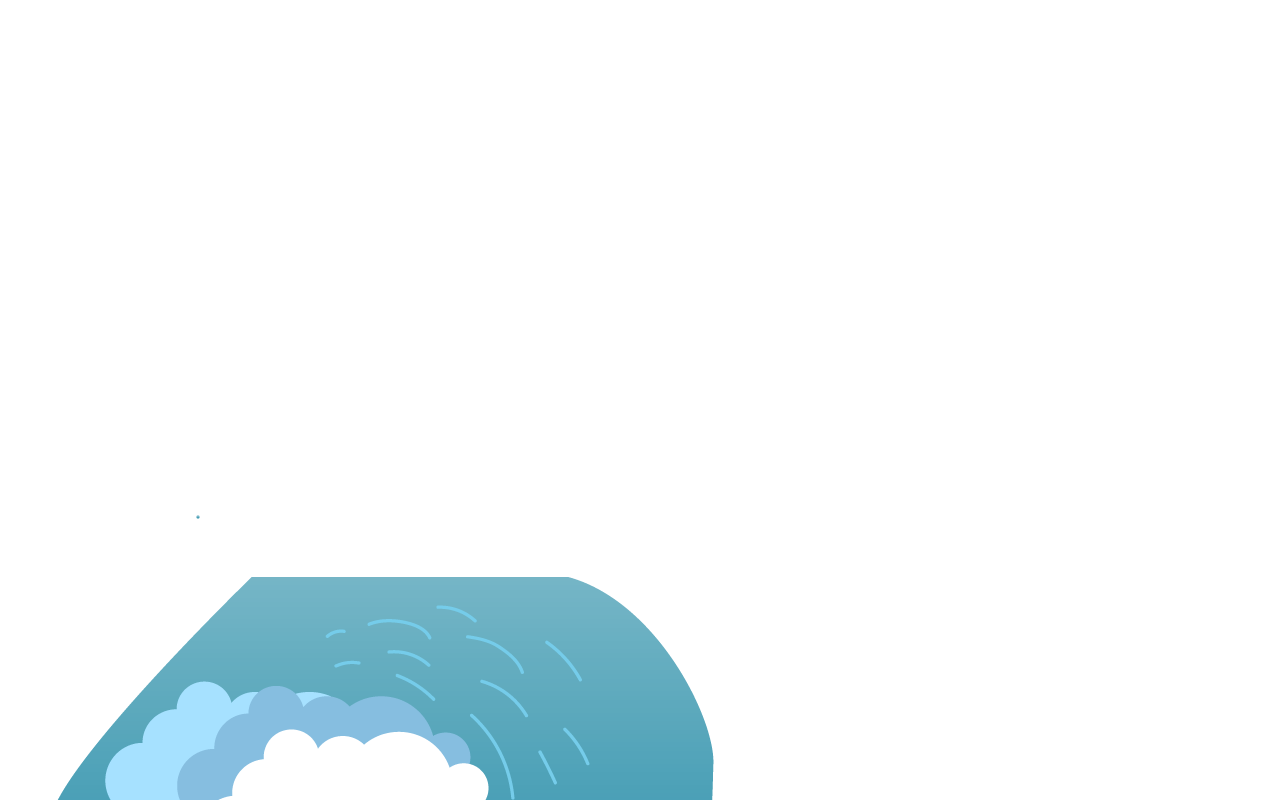
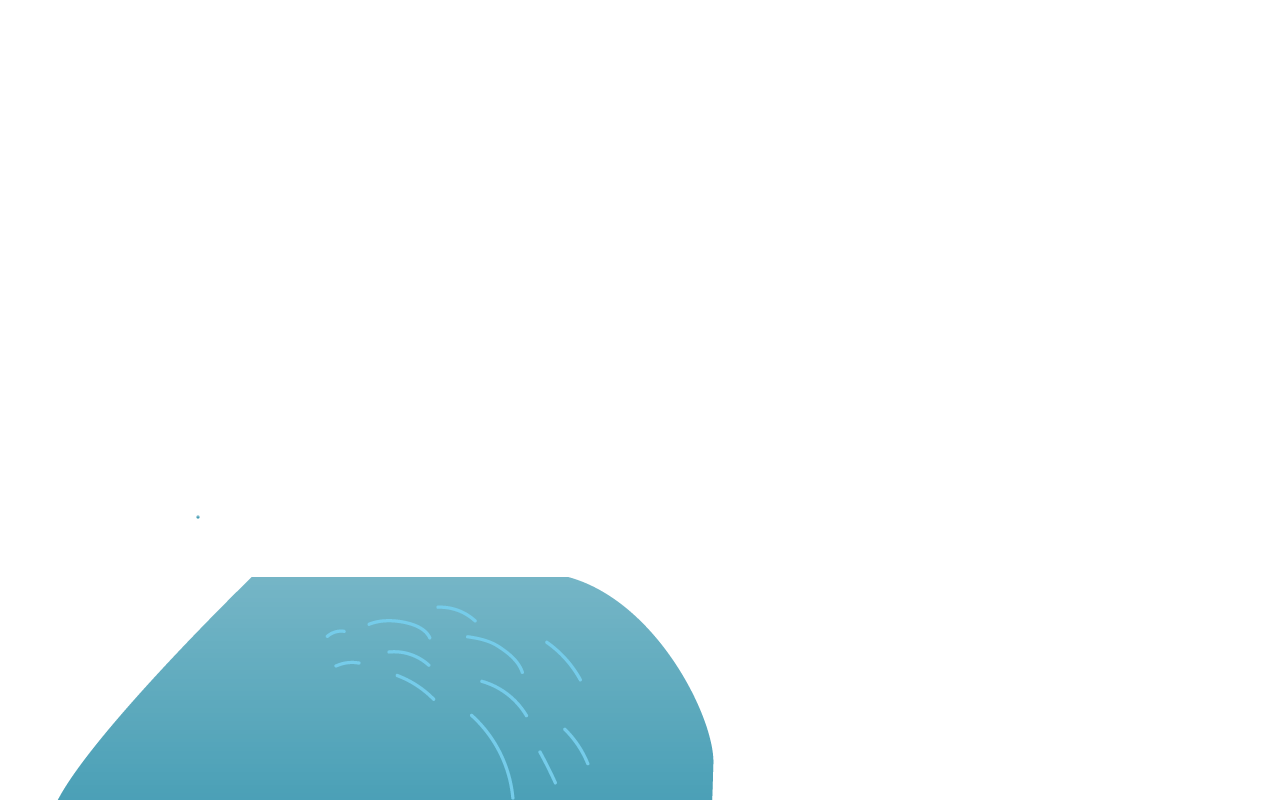
before starting in java, first scene animated

Changed region(s): [[0.0625, 0.8438, 0.4062, 1.0]]

diff --git a/anim.css b/anim.css
@@ -1,177 +1,214 @@
-body {
-    background: url(background/1.png) no-repeat;
-}
-
-img {
-    width: 100%;
-}
-
-.leftcliff1 {
-    position: fixed;
-    margin-left: -10px;
-    width: 1280px;
-    height: 800px;
-    background: url(background/3.png) no-repeat;
-    animation: lc1 1s forwards ease-in;
-}
-
-@keyframes lc1 {
-    0% {
-        background-position: -100vw;
+    body {
+        background: url(background/1.png) no-repeat;
+         background-attachment: fixed;
+        background-size: 1280px 800px;
     }
-    100% {
-        background-position: 0vw;
+
+    img {
+        width: 100%;
     }
-}
 
-.leftcliff {
-    position: fixed;
-    margin-left: -10px;
-    width: 1280px;
-    height: 800px;
-    background: url(background/2.png) no-repeat;
-    animation: lc 1s forwards ease-in;
-}
-
-@keyframes lc {
-    0% {
-        background-position: -100vw;
+    .leftcliff1 {
+        position: fixed;
+        margin-left: -10px;
+        width: 1280px;
+        height: 800px;
+        background: url(background/3.png) no-repeat;
+        animation: lc1 1.5s forwards ease-out;
     }
-    100% {
-        background-position: 0vw;
+
+    @keyframes lc1 {
+        0% {
+            background-position: -100vw;
+        }
+        100% {
+            background-position: 0vw;
+        }
     }
-}
 
-.backcliff {
-    position: fixed;
-    margin-left: -10px;
-    width: 1280px;
-    height: 800px;
-    background: url(background/6.png) no-repeat;
-    animation: bc 1s forwards ease-in;
-}
-
-@keyframes bc {
-    0% {
-        transform: translateY(-300vh);
+    .leftcliff {
+        position: fixed;
+        margin-left: -10px;
+        width: 1280px;
+        height: 800px;
+        background: url(background/2.png) no-repeat;
+        animation: lc 1.5s forwards ease-out;
     }
-    100% {
-        transform: translateY(0vh);
+
+    @keyframes lc {
+        0% {
+            background-position: -100vw;
+        }
+        100% {
+            background-position: 0vw;
+        }
     }
-}
 
-.waterfall {
-    position: fixed;
-    margin-left: -10px;
-    width: 1280px;
-    height: 800px;
-    background: url(background/4.png) no-repeat;
-    animation: wf 1s forwards ease-in;
-}
-
-@keyframes wf {
-    0% {
-        transform: translateY(300vh);
+    .backcliff {
+        position: fixed;
+        margin-left: -10px;
+        width: 1280px;
+        height: 800px;
+        background: url(background/6.png) no-repeat;
+        animation: bc 1.5s forwards ease-out;
     }
-    100% {
-        transform: translateY(0vh);
+
+    @keyframes bc {
+        0% {
+            transform: translateY(-300vh);
+        }
+        100% {
+            transform: translateY(0vh);
+        }
     }
-}
 
-.rightcliff {
-    position: fixed;
-    margin-left: -10px;
-    width: 1280px;
-    height: 800px;
-    background: url(background/7.png) no-repeat;
-    animation: rc 1s forwards ease-in;
-}
-
-@keyframes rc {
-    0% {
-        background-position: 500vw;
+    .waterfall {
+        position: absolute;
+        bottom: -25px;
+        left: -10px;
+        width: 341px;
+        height: 580px;
+        background-position: bottom;
+        background: url(background/waterfall.png) no-repeat;
+        animation: wtanim 1s infinite steps(6);
+        transform: translateY(11vh);
     }
-    100% {
-        background-position: 0vw;
+
+    @keyframes wtanim {
+        to {
+            background-position: -2044px 0px;
+        }
     }
-}
 
-.rightcliff1 {
-    position: fixed;
-    margin-left: -10px;
-    width: 1280px;
-    height: 800px;
-    background: url(background/8.png) no-repeat;
-    animation: rc1 1s forwards ease-in;
-}
-
-@keyframes rc1 {
-    0% {
-        background-position: 500vw;
+    .rightcliff {
+        position: fixed;
+        margin-left: -10px;
+        width: 1280px;
+        height: 800px;
+        background: url(background/7.png) no-repeat;
+        animation: rc 1.5s forwards ease-out;
     }
-    100% {
-        background-position: 0vw;
+
+    @keyframes rc {
+        0% {
+            background-position: 500vw;
+        }
+        100% {
+            background-position: 0vw;
+        }
     }
-}
 
-.water {
-    position: fixed;
-    margin-left: -10px;
-    width: 1280px;
-    height: 800px;
-    background: url(background/5.png) no-repeat;
-    animation: wt 1s forwards ease-in;
-}
-
-@keyframes wt {
-    0% {
-        transform: translateY(-300vh);
+    .rightcliff1 {
+        position: fixed;
+        margin-left: -10px;
+        width: 1280px;
+        height: 800px;
+        background: url(background/8.png) no-repeat;
+        animation: rc1 1.5s forwards ease-out;
     }
-    100% {
-        transform: translateY(0vh);
+
+    @keyframes rc1 {
+        0% {
+            background-position: 500vw;
+        }
+        100% {
+            background-position: 0vw;
+        }
     }
-}
 
-.title {
-    position: fixed;
-    margin-left: -10px;
-    width: 1280px;
-    height: 800px;
-    background: url(background/title.png) no-repeat;
-    animation: ttl 2s forwards ease-out;
-}
-
-@keyframes ttl {
-    0% {
-        opacity: 0;
-        transform: scale(0);
+    .water {
+        position: fixed;
+        margin-left: -10px;
+        width: 1280px;
+        height: 800px;
+        background: url(background/5.png) no-repeat;
+        animation: wt 1.5s forwards ease-out;
     }
-    100% {
-        transform: scale(1);
+
+    @keyframes wt {
+        0% {
+            transform: translateY(-300vh);
+        }
+        100% {
+            transform: translateY(0vh);
+        }
     }
-}
 
-.start {
-    position: fixed;
-    margin-left: -10px;
-    width: 1280px;
-    height: 800px;
-    background: url(background/start.svg) no-repeat;
-    animation: str 2.5s 1s forwards ease-out;
-}
-
-@keyframes str {
-    0% {
-        opacity: 0;
-
+    .sun {
+        position: fixed;
+        margin-left: -10px;
+        width: 1280px;
+        height: 800px;
+        background: url(background/9.png) no-repeat;
+        animation: rc 2.5s forwards cubic-bezier(0, .67, .12, 1);
     }
-    100% {
-        opacity:1;
+
+    @keyframes rc {
+        0% {
+            background-position: 1500vw;
+        }
+        100% {
+            background-position: 0vw;
+        }
     }
-}
 
+    .title {
+        position: fixed;
+        margin-left: -10px;
+        width: 1280px;
+        height: 800px;
+        background: url(background/title.png) no-repeat;
+        animation: ttl 2s forwards ease-out;
+    }
 
-/*.man{
+    @keyframes ttl {
+        0% {
+            opacity: 0;
+            transform: scale(0);
+        }
+        100% {
+            transform: scale(1);
+        }
+    }
+
+    .start {
+        position: fixed;
+        margin-left: -10px;
+        width: 1280px;
+        height: 800px;
+        background: url(background/start.svg) no-repeat;
+        animation: str 3s forwards ease-out;
+    }
+
+    @keyframes str {
+        0% {
+            opacity: 0;
+        }
+        100% {
+            opacity: 1;
+        }
+    }
+
+    .sparkwater {
+        position: absolute;
+        bottom: -35px;
+        left: 100px;
+        width: 413px;
+        height: 300px;
+        background-image: url(background/clouds.png);
+        animation: upndown 1s infinite steps(5);
+        transform: translateY(11vh);
+    }
+
+    @keyframes upndown {
+        to {
+            background-position: -2063px 0px;
+            /* 1761 because of picture width*/
+        }
+    }
+
+.moveCSS
+    /*.man{
     margin: auto;
     width: 220px;
     height: 411px;

diff --git a/java.js b/java.js
@@ -1,8 +1,11 @@
-/*window.addEventListener("load", pageReady);
+window.addEventListener("load", pageReady);
 function pageReady(){
     console.log("all loaded");
 }
-
+let backGround = document.querySelector ("div");
 let startAnim = document.querySelector(".start");
 startAnim.addEventListener("click", startAnimations);
-function startAnimations*/
+function startAnimations(){
+    console.log("next scene please");
+    backGround.classList.add("moveCSS")
+}

diff --git a/index.html b/index.html
@@ -16,8 +16,12 @@
     <div class="rightcliff1"></div>
     <div class="rightcliff"></div>
     <div class="leftcliff"></div>
-    <div class="title"></div>
     <div class="start"></div>
+    <div class="sun"></div>
+
+    <div class="title"></div>
+    <div class="sparkwater"></div>
+
 
     <div class="man"></div>
     <script src="java.js"></script>
